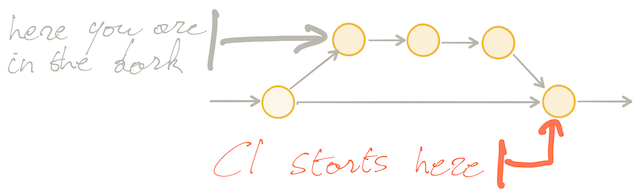
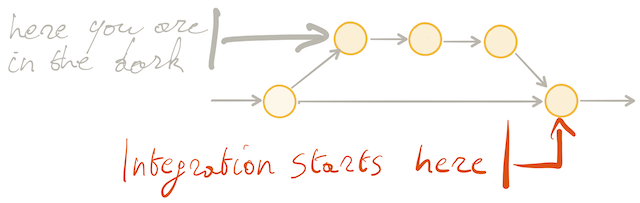
Integrate Steve's feedback on it delays feedback

diff --git a/_drafts/on-the-evilness-of-feature-branching-the-problems.md b/_drafts/on-the-evilness-of-feature-branching-the-problems.md
@@ -55,7 +55,9 @@ Still, nowadays, many teams choose to work with feature branches for the various
 
 ### It delays feedback
 
-As long as we have not merged our branch back to mainline, we simply do not know if our changes broke the application or not. Continuous Integration is only triggered the minute we are merging back to mainline.
+Remember, Continuous Integration is a practice to ensure always working software on mainline and to get feedback within minutes whether a change broke the application or not.
+
+With feature branching this feedback is delayed. As long as we have not merged our branch back to mainline, we simply do not know if our changes broke the application or not. Continuous Integration is only triggered the minute we are merging back to mainline. Only then starts the integration of what is on the branch into the codebase.
 
 ![It delays feedback](/images/on-the-evilness-of-feature-branching-the-problems/it-delays-feedback.png)
 
@@ -64,17 +66,15 @@ This delay in feedback increases with the duration of the branch and with the nu
 If the branch lives for a couple of hours, feedback is delayed by a couple of hours. If the branch lives for a couple of days, feedback is delayed by a couple
 of days.
 
-Often the solution to delayed feedback is to start even more work, instead of finishing the work that is already in progress. Or, worse, throw even more people to the problem to then hit [Brooks's Law](https://en.wikipedia.org/wiki/Brooks%27s_law). Hence, again increasing the work in progress together with the number of parallel branches. To result with waiting times going through the roof. All of this, of course, to optimise for utilisation. And **here we are in hell**.
+Often the solution to delayed feedback is to start even more work, instead of finishing the work that is already in progress. Or, worse, throw even more people to the problem to then hit [Brooks's Law](https://en.wikipedia.org/wiki/Brooks%27s_law). Hence, again increasing the work in progress together with the number of parallel branches. To result with waiting times going through the roof and delaying feedback even more. All of this, of course, to optimise for utilisation. And **here we are in hell**.
 
-Remember, Continuous Integration is a practice to ensure always working software on mainline and to get feedback within minutes whether a change broke the application or not.
+Or teams like to redefine Continuous Integration by saying: "*We have our [preferred centralised build tool] running against all of our branches*".
 
-Yet, a lot of teams like to redefine Continuous Integration by saying: "*We have our [preferred centralised build tool] running against all of our branches*".
+Having an automated build running against all of our branches is certainly a good thing. But it is not Continuous Integration. We are not integrating. The only feedback we get is whether the code that exists inside our isolated branch still compiles and whether we have not introduced any regressions against the tests that exist inside that isolated branch. We do not get any feedback whatsoever on whether our changes integrate well with the changes that exist on all the other existing parallel branches. Even when all tests pass on the branch, they still may fail when merging back into mainline. The real authoritative feedback only happens at merge time when integrating, once the feature is finished. Everything else is a guess.
 
-Having an automated build running against all of our branches is certainly a good thing. But it is not Continuous Integration. We are not integrating. It is still a lie. The only feedback we get is whether the code that exists inside our isolated branch still compiles and whether we have not introduced any regressions against the tests that exist inside that isolated branch. We do not get any feedback whatsoever on whether our changes integrate well with the changes that exist on all the other existing parallel branches. Even when all tests pass on the branch, they still may fail when merging back into mainline. The real authoritative feedback only happens at merge time when integrating, once the feature is finished. Everything else is a guess.
+So, from this moment on **CI stands for [Continuous Isolation](https://continuousisolation.com)** and not anymore for *Continuous Integration*. We are not integrating outside changes and the rest of the team does not know how our changes integrate with their work.
 
-From this moment on **CI stands for [Continuous Isolation](https://continuousisolation.com)** and not anymore for *Continuous Integration*. We are not integrating outside changes and the rest of the team does not know how our changes integrate with their work.
-
-The value of accelerating this feedback resides in failing fast. Problems are spotted early, within minutes. We achieve this when committing frequently, multiple times a day, regardless of code complexity or team size. But it requires we work very hard to keep getting fast feedback. This means if the build is too slow, we need to speed up the build; if tests are too slow, we need to write better and more concise tests; if the hardware is too slow, we need to buy faster hardware; if the codebase is too coupled, preventing us to write concise tests, we need to decouple the codebase.
+The value of accelerating feedback resides in failing fast. Problems are spotted early, within minutes. We achieve this when committing frequently, multiple times a day, regardless of code complexity or team size. But it requires we work very hard to keep getting fast feedback. This means if the build is too slow, we need to speed up the build; if tests are too slow, we need to write better and more concise tests; if the hardware is too slow, we need to buy faster hardware; if the codebase is too coupled, preventing us to write concise tests, we need to decouple the codebase.
 
 ### It hinders the integration of features
 
